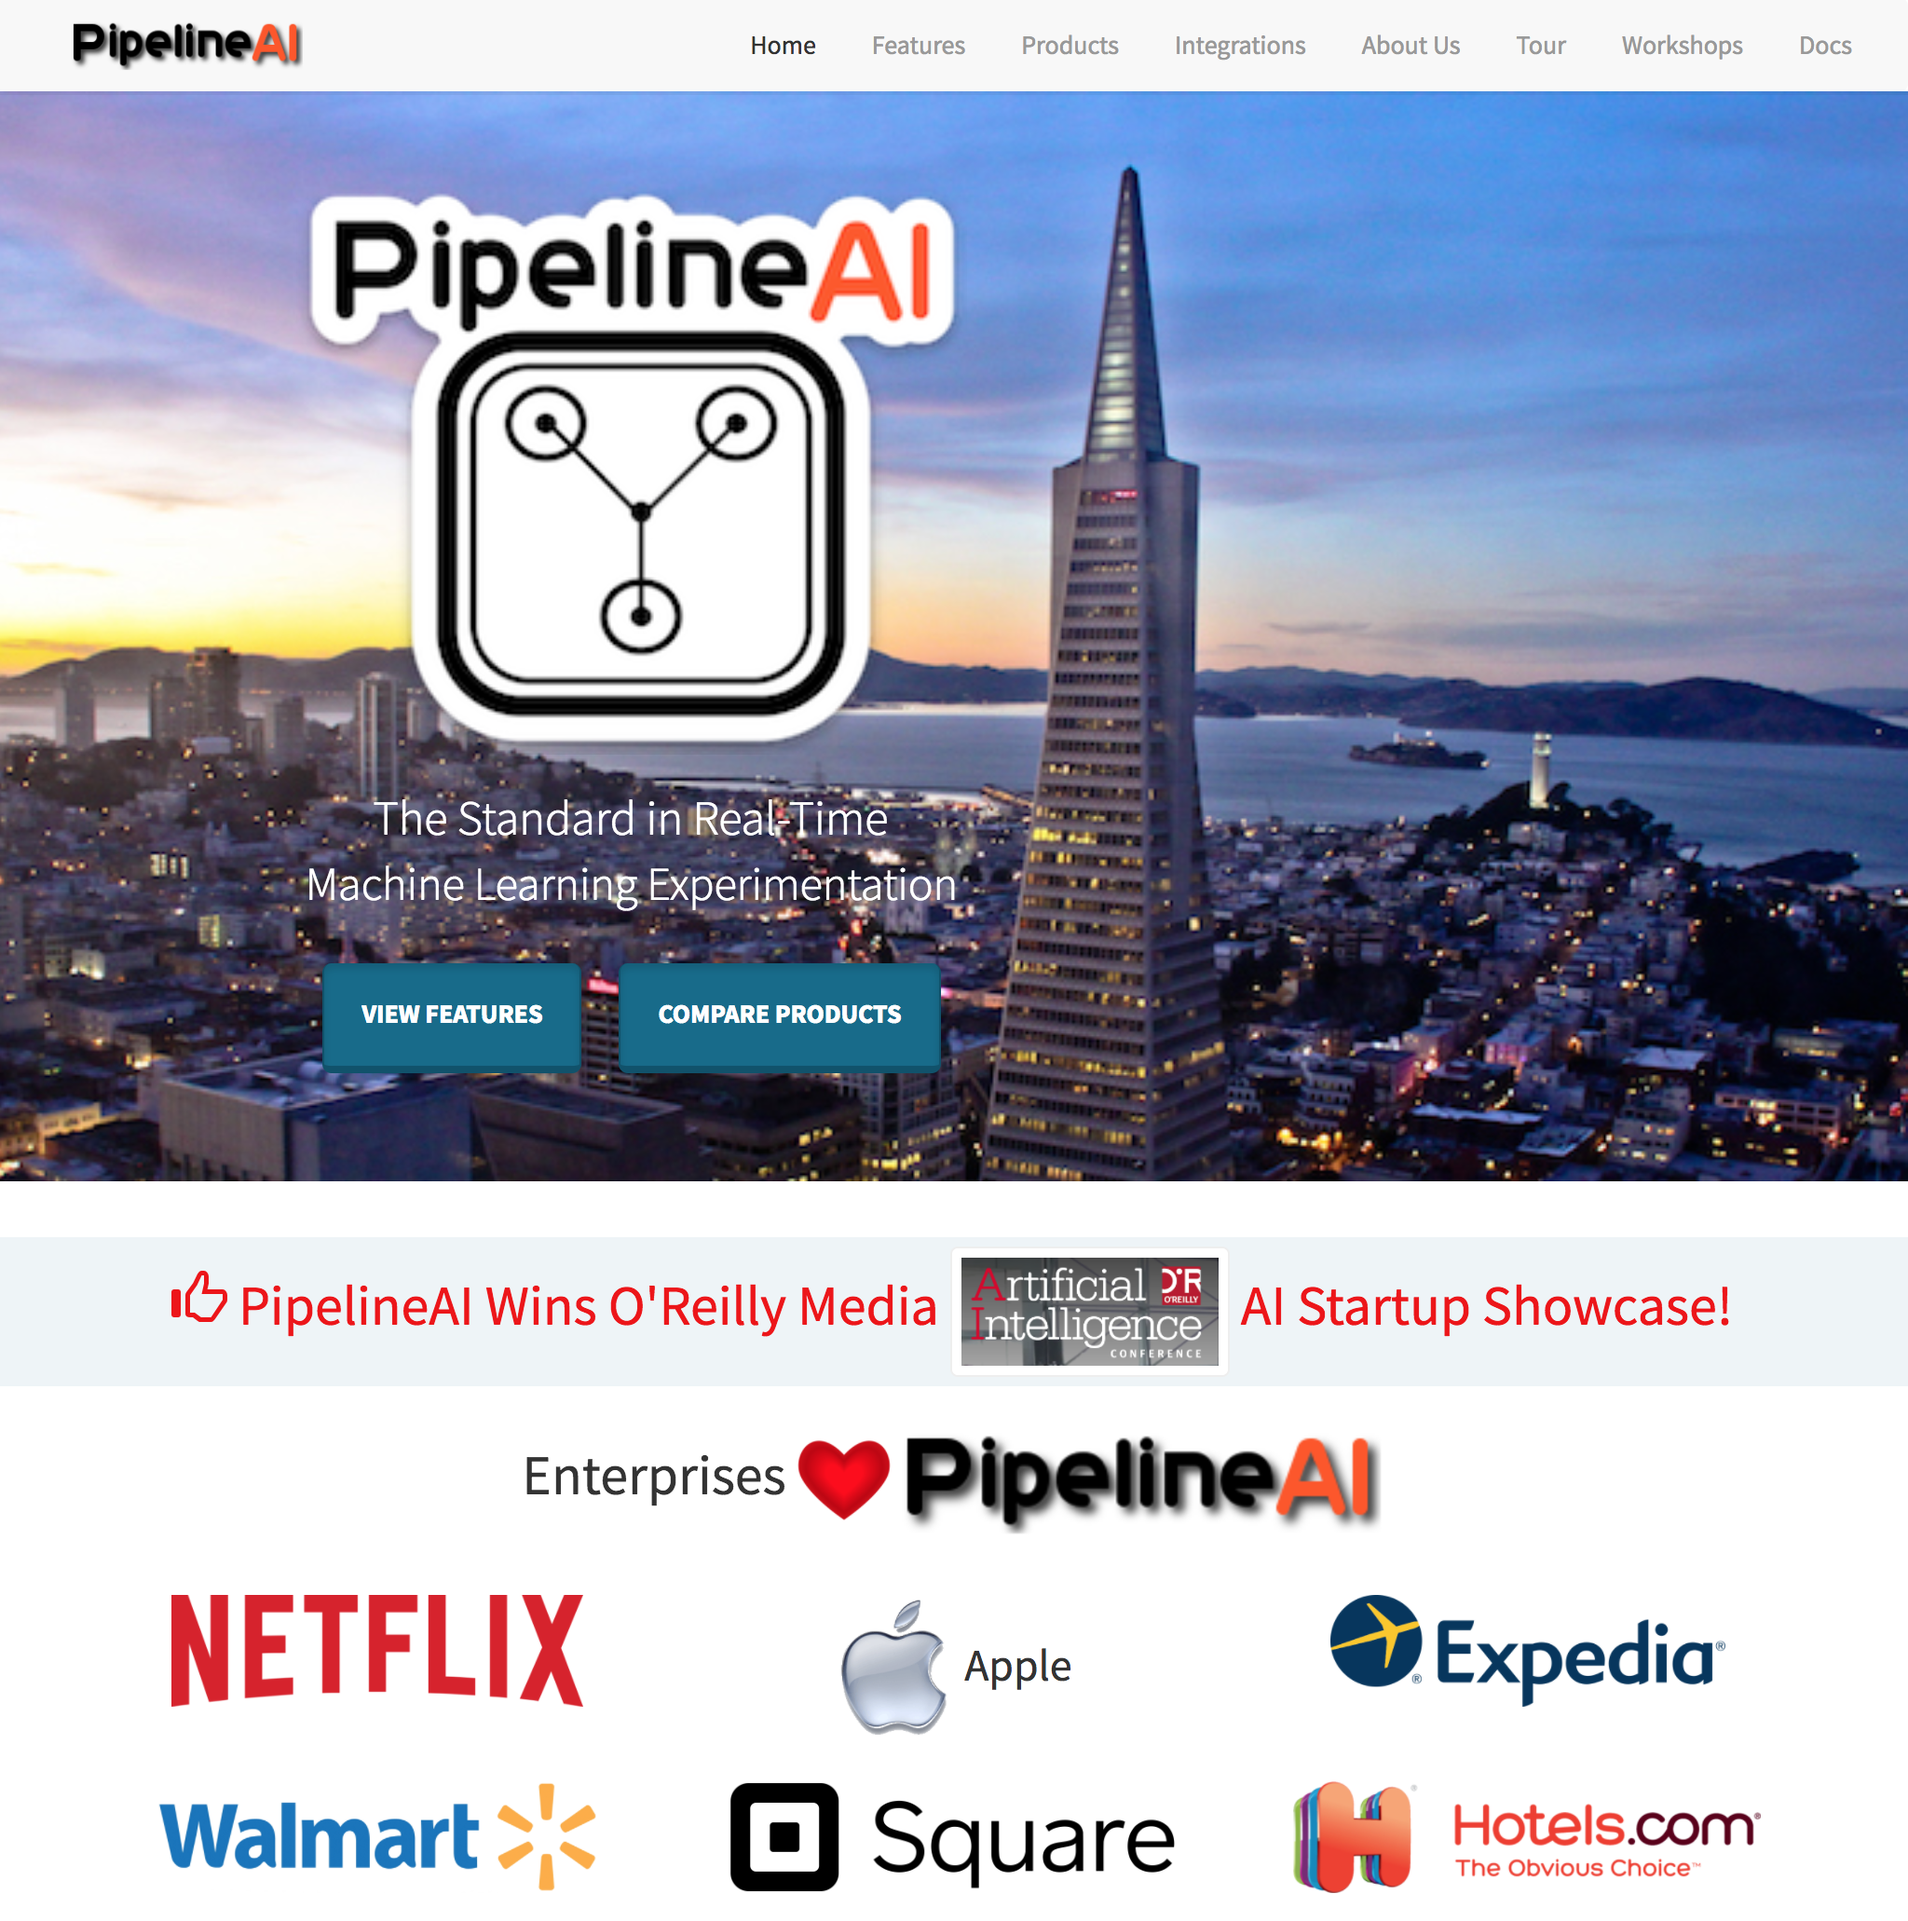
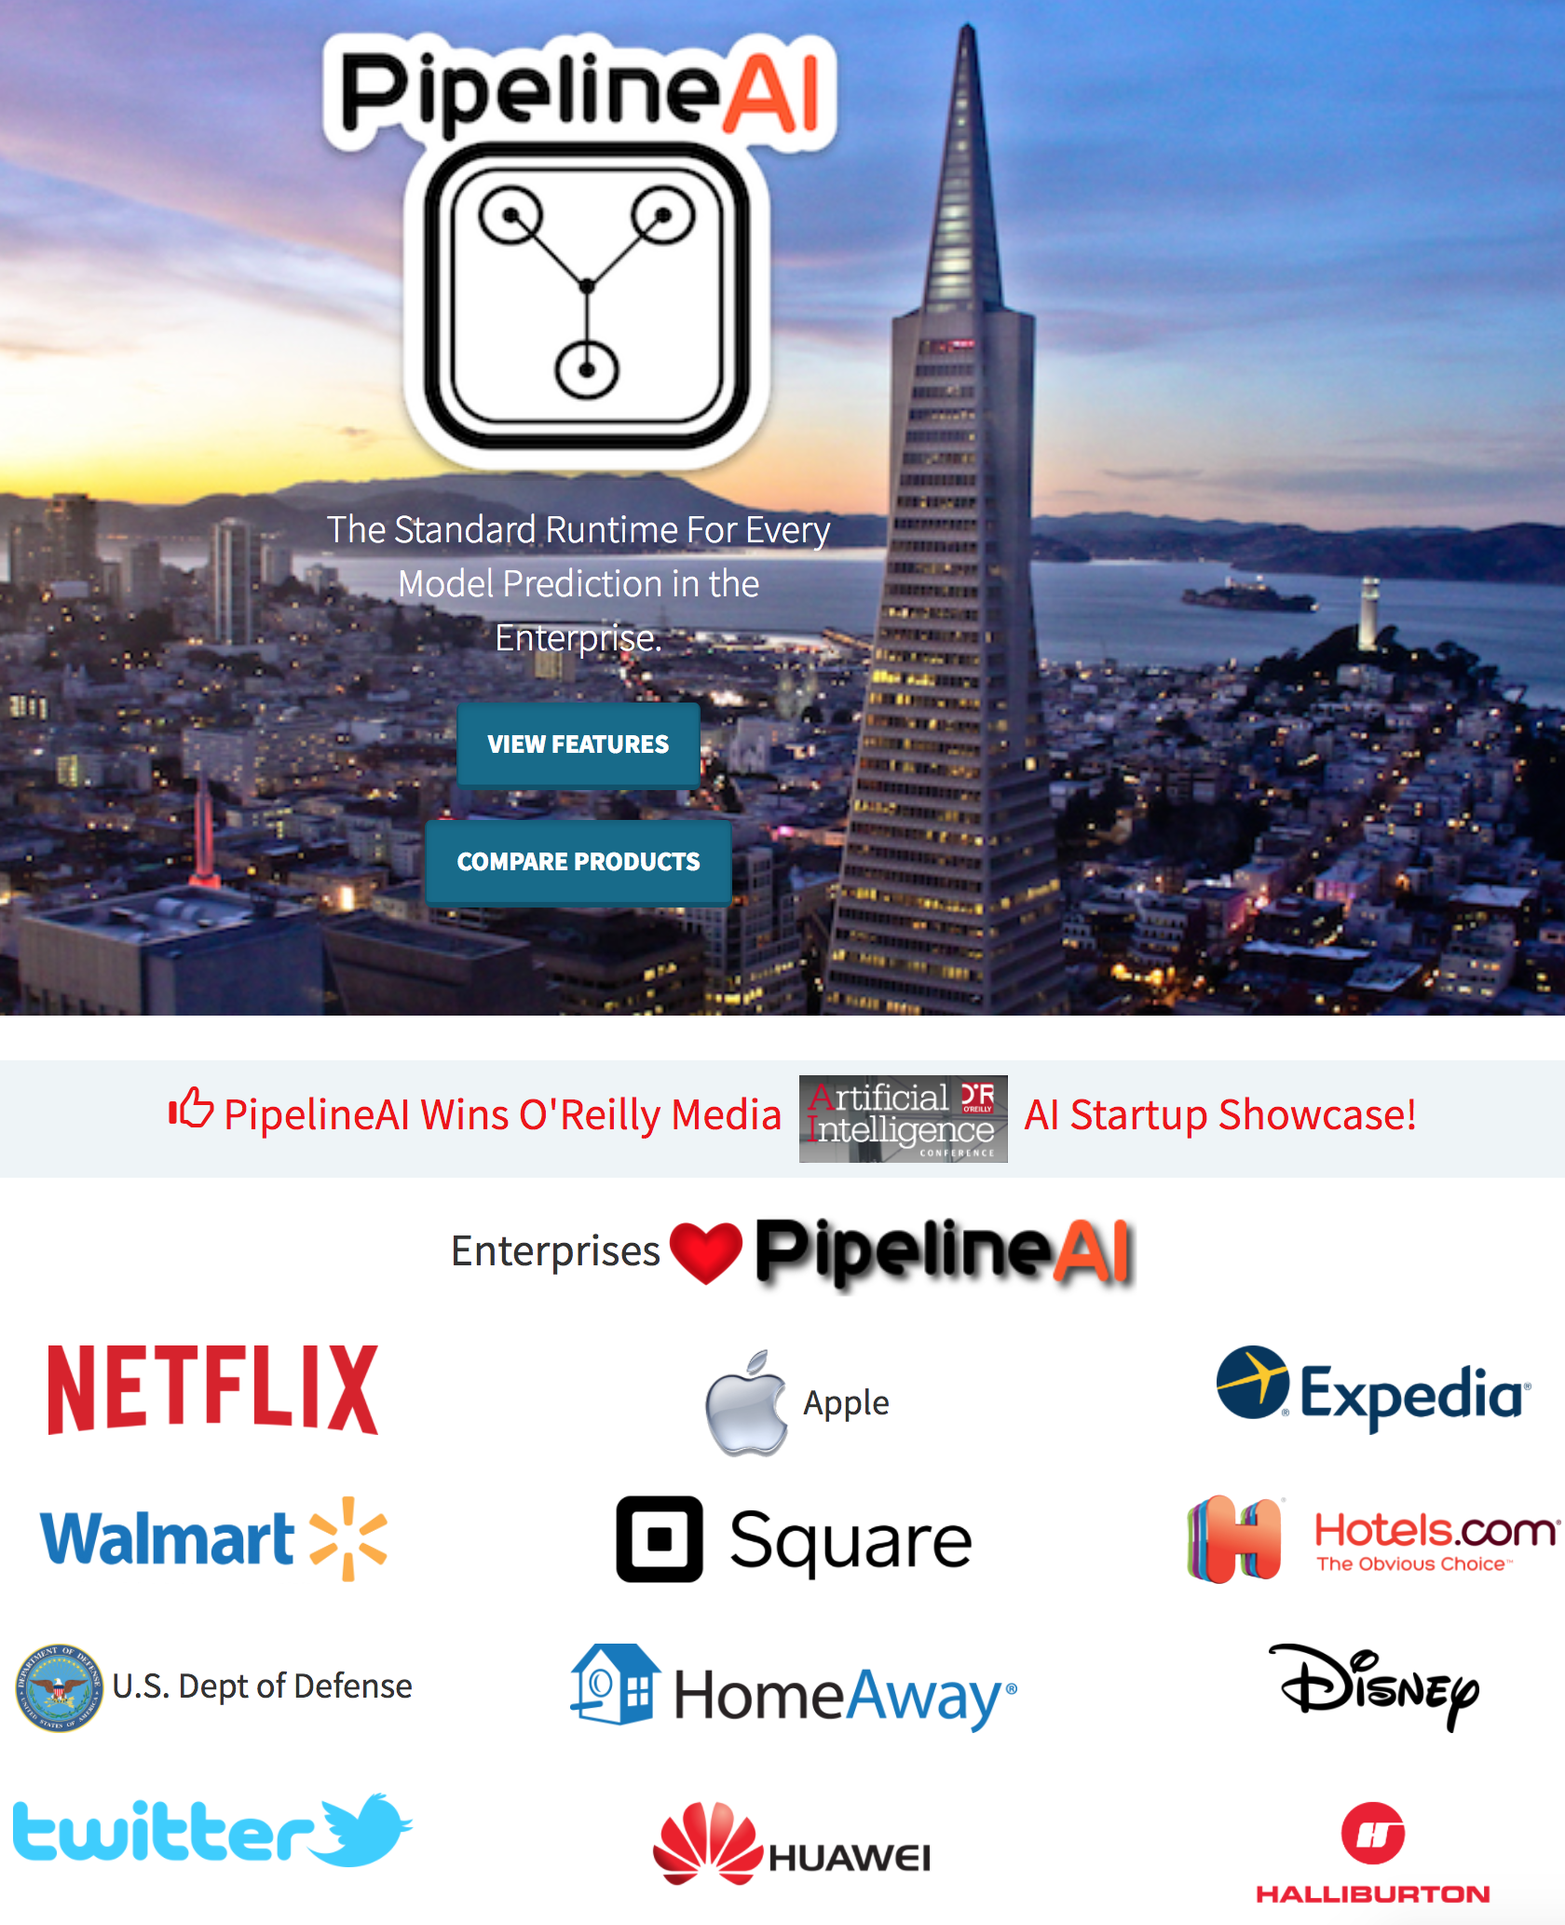
updated docs

diff --git a/docs/src/index.html b/docs/src/index.html
@@ -58,13 +58,18 @@
                     <p class="text-center"><img class="img-responsive" src="assets/img/logo/pipelineai-logo-250x214.png" alt="PipelineAI" style="width:360px;"></p>
                     <p class="text-center" data-aos="fade-right" style="color:rgb(255,255,255);font-size:26px;margin:0px 0px 0px;width:360px;">The Standard Runtime For Every Model Prediction in the Enterprise. </p>
                     <p class="text-center" style="color:white;font-size:18px;margin:15px 0px 0px 0px;"><a class="btn btn-primary active btn-lg" role="button" href="/features" style="font-size:12px;padding:20px;margin:10px;">View Features</a><a class="btn btn-primary active btn-lg" role="button" href="/products" style="font-size:12px;padding:20px;margin:10px;">Compare Products</a></p>
-                    <p
-                    class="text-center" style="color:white;font-size:18px;margin:15px 0px 0px 0px;"></p>
                 </div>
             </div>
         </div>
     </div>
     <h2 class="text-center" style="color:rgb(239,15,1);background-color:rgb(238,244,247);padding:5px;"><i class="glyphicon glyphicon-thumbs-up" style="color:rgb(239,15,1);"></i><strong> </strong>PipelineAI Wins O'Reilly Media <img class="img-rounded" src="assets/img/oreilly-ai-conf-sf-sm.png" alt="PipelineAI Wins O'Reilly AI Startup Showcase" style="width:150px;padding:5px;"> AI Startup Showcase! </h2>
+    <h2 class="text-center" style="color:rgb(239,15,1);background-color:rgba(238,244,247,0);padding:5px;"><div id="github-metrics">
+<center>
+    <a class="github-button" href="https://github.com/pipelineai/pipeline" data-size="large" data-show-count="true" aria-label="Stars pipelineai/pipeline on GitHub">GitHub Stars</a>
+    &nbsp;&nbsp;
+    <a class="github-button" href="https://github.com/pipelineai/pipeline/fork" data-size="large" data-show-count="true" aria-label="Forks pipelineai/pipeline on GitHub">GitHub Forks</a>
+</center>
+</div>    </h2>
     <h2 class="text-center" style="margin:20px 0px 0px;"> Enterprises <img src="assets/img/heart.png" style="width:50px;"> <img src="assets/img/logo/pipelineai-split-black-258x62.png" alt="PipelineAI"> </h2>
     <section class="testimonials" style="margin:0px 0px;">
         <div class="row features" style="margin:10px 50px;">
@@ -144,6 +149,7 @@
         <script src="assets/js/pipeline-traffic-slider.js"></script>
         <script src="assets/js/pipeline-live-predictions.js"></script>
         <script src="assets/js/bs-animation.js"></script>
+        <script src="https://buttons.github.io/buttons.js"></script>
         <script src="https://cdnjs.cloudflare.com/ajax/libs/aos/2.1.1/aos.js"></script>
 </body>
 

diff --git a/docs/src/docs/index.html b/docs/src/docs/index.html
@@ -57,8 +57,14 @@
             <div class="row" style="margin:0px 0px;">
                 <div class="col-md-12 col-md-offset-12" style="padding:0px 0px;margin:0px 0px 20px 0px;">
                     <h2 class="text-center" data-aos="fade-up" style="background-color:rgb(238,244,247);"><img src="../assets/img/github-logo.png" style="padding:5px;height:50px;"> PipelineAI Open Source </h2>
-                    <p class="text-center">
-                        <a href="https://github.com/PipelineAI/"></a>
+                    <p class="lead text-center">
+                        <div id="github-metrics">
+<center>
+    <a class="github-button" href="https://github.com/pipelineai/pipeline" data-size="large" data-show-count="true" aria-label="Stars pipelineai/pipeline on GitHub">GitHub Stars</a>
+    &nbsp;&nbsp;
+    <a class="github-button" href="https://github.com/pipelineai/pipeline/fork" data-size="large" data-show-count="true" aria-label="Forks pipelineai/pipeline on GitHub">GitHub Forks</a>
+</center>    
+</div>
                     </p>
                     <p class="text-center" style="margin:20px 0px;"><a class="btn btn-primary active btn-lg" role="button" href="https://github.com/PipelineAI/" target="_blank" data-aos="fade-up" style="padding:20px;font-size:12px;">Explore Open Source</a></p>
                 </div>
@@ -142,6 +148,7 @@
     <script src="../assets/js/pipeline-traffic-slider.js"></script>
     <script src="../assets/js/pipeline-live-predictions.js"></script>
     <script src="../assets/js/bs-animation.js"></script>
+    <script src="https://buttons.github.io/buttons.js"></script>
     <script src="https://cdnjs.cloudflare.com/ajax/libs/aos/2.1.1/aos.js"></script>
 </body>
 

diff --git a/docs/src/products/index-old.html b/docs/src/products/index-old.html
@@ -193,6 +193,7 @@ chosen link or button. -->
     <script src="../assets/js/pipeline-traffic-slider.js"></script>
     <script src="../assets/js/pipeline-live-predictions.js"></script>
     <script src="../assets/js/bs-animation.js"></script>
+    <script src="https://buttons.github.io/buttons.js"></script>
     <script src="https://cdnjs.cloudflare.com/ajax/libs/aos/2.1.1/aos.js"></script>
 </body>
 

diff --git a/docs/src/products/index.html b/docs/src/products/index.html
@@ -190,6 +190,7 @@ chosen link or button. -->
     <script src="../assets/js/pipeline-traffic-slider.js"></script>
     <script src="../assets/js/pipeline-live-predictions.js"></script>
     <script src="../assets/js/bs-animation.js"></script>
+    <script src="https://buttons.github.io/buttons.js"></script>
     <script src="https://cdnjs.cloudflare.com/ajax/libs/aos/2.1.1/aos.js"></script>
 </body>
 

diff --git a/docs/src/index-with-quotes.html b/docs/src/index-with-quotes.html
@@ -167,6 +167,7 @@
         <script src="assets/js/pipeline-traffic-slider.js"></script>
         <script src="assets/js/pipeline-live-predictions.js"></script>
         <script src="assets/js/bs-animation.js"></script>
+        <script src="https://buttons.github.io/buttons.js"></script>
         <script src="https://cdnjs.cloudflare.com/ajax/libs/aos/2.1.1/aos.js"></script>
 </body>
 

diff --git a/docs/src/about/index.html b/docs/src/about/index.html
@@ -128,6 +128,7 @@
     <script src="../assets/js/pipeline-traffic-slider.js"></script>
     <script src="../assets/js/pipeline-live-predictions.js"></script>
     <script src="../assets/js/bs-animation.js"></script>
+    <script src="https://buttons.github.io/buttons.js"></script>
     <script src="https://cdnjs.cloudflare.com/ajax/libs/aos/2.1.1/aos.js"></script>
 </body>
 

diff --git a/docs/src/features/compare-live.html b/docs/src/features/compare-live.html
@@ -113,6 +113,7 @@
     <script src="../assets/js/pipeline-traffic-slider.js"></script>
     <script src="../assets/js/pipeline-live-predictions.js"></script>
     <script src="../assets/js/bs-animation.js"></script>
+    <script src="https://buttons.github.io/buttons.js"></script>
     <script src="https://cdnjs.cloudflare.com/ajax/libs/aos/2.1.1/aos.js"></script>
 </body>
 

diff --git a/docs/src/features/compare.html b/docs/src/features/compare.html
@@ -103,6 +103,7 @@
     <script src="../assets/js/pipeline-traffic-slider.js"></script>
     <script src="../assets/js/pipeline-live-predictions.js"></script>
     <script src="../assets/js/bs-animation.js"></script>
+    <script src="https://buttons.github.io/buttons.js"></script>
     <script src="https://cdnjs.cloudflare.com/ajax/libs/aos/2.1.1/aos.js"></script>
 </body>
 

diff --git a/docs/src/features/continuous.html b/docs/src/features/continuous.html
@@ -107,6 +107,7 @@
     <script src="../assets/js/pipeline-traffic-slider.js"></script>
     <script src="../assets/js/pipeline-live-predictions.js"></script>
     <script src="../assets/js/bs-animation.js"></script>
+    <script src="https://buttons.github.io/buttons.js"></script>
     <script src="https://cdnjs.cloudflare.com/ajax/libs/aos/2.1.1/aos.js"></script>
 </body>
 

diff --git a/docs/src/features/deploy.html b/docs/src/features/deploy.html
@@ -103,6 +103,7 @@
     <script src="../assets/js/pipeline-traffic-slider.js"></script>
     <script src="../assets/js/pipeline-live-predictions.js"></script>
     <script src="../assets/js/bs-animation.js"></script>
+    <script src="https://buttons.github.io/buttons.js"></script>
     <script src="https://cdnjs.cloudflare.com/ajax/libs/aos/2.1.1/aos.js"></script>
 </body>
 

diff --git a/docs/src/features/drag-and-drop-live.html b/docs/src/features/drag-and-drop-live.html
@@ -149,6 +149,7 @@
     <script src="../assets/js/pipeline-traffic-slider.js"></script>
     <script src="../assets/js/pipeline-live-predictions.js"></script>
     <script src="../assets/js/bs-animation.js"></script>
+    <script src="https://buttons.github.io/buttons.js"></script>
     <script src="https://cdnjs.cloudflare.com/ajax/libs/aos/2.1.1/aos.js"></script>
 </body>
 

diff --git a/docs/src/features/drag-and-drop.html b/docs/src/features/drag-and-drop.html
@@ -104,6 +104,7 @@
     <script src="../assets/js/pipeline-traffic-slider.js"></script>
     <script src="../assets/js/pipeline-live-predictions.js"></script>
     <script src="../assets/js/bs-animation.js"></script>
+    <script src="https://buttons.github.io/buttons.js"></script>
     <script src="https://cdnjs.cloudflare.com/ajax/libs/aos/2.1.1/aos.js"></script>
 </body>
 
